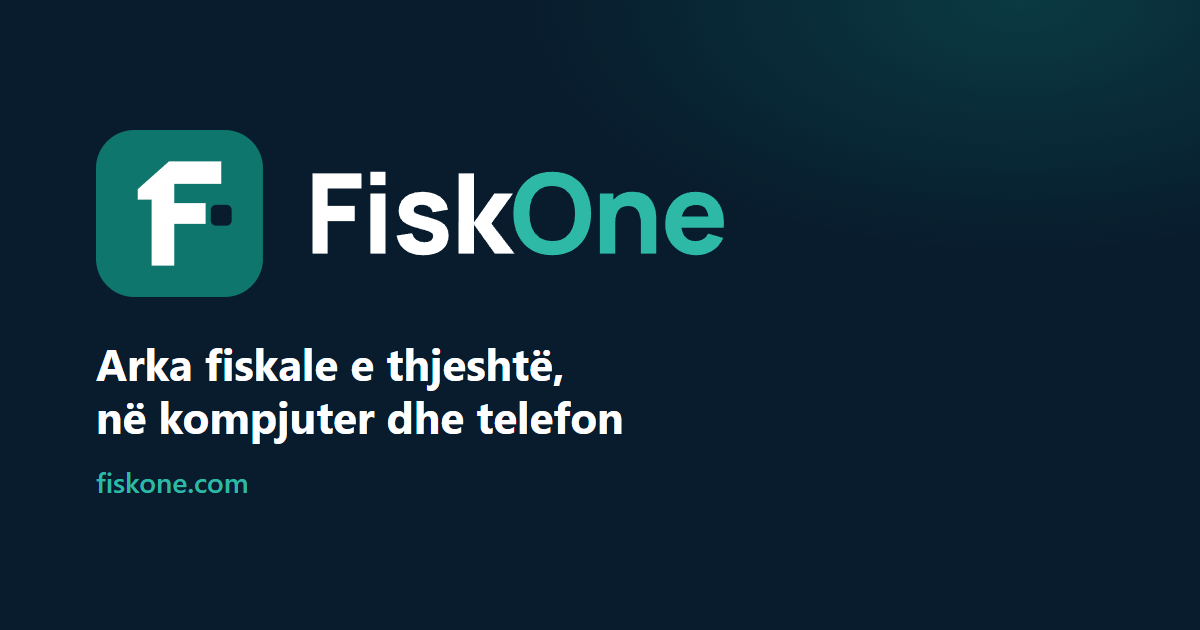
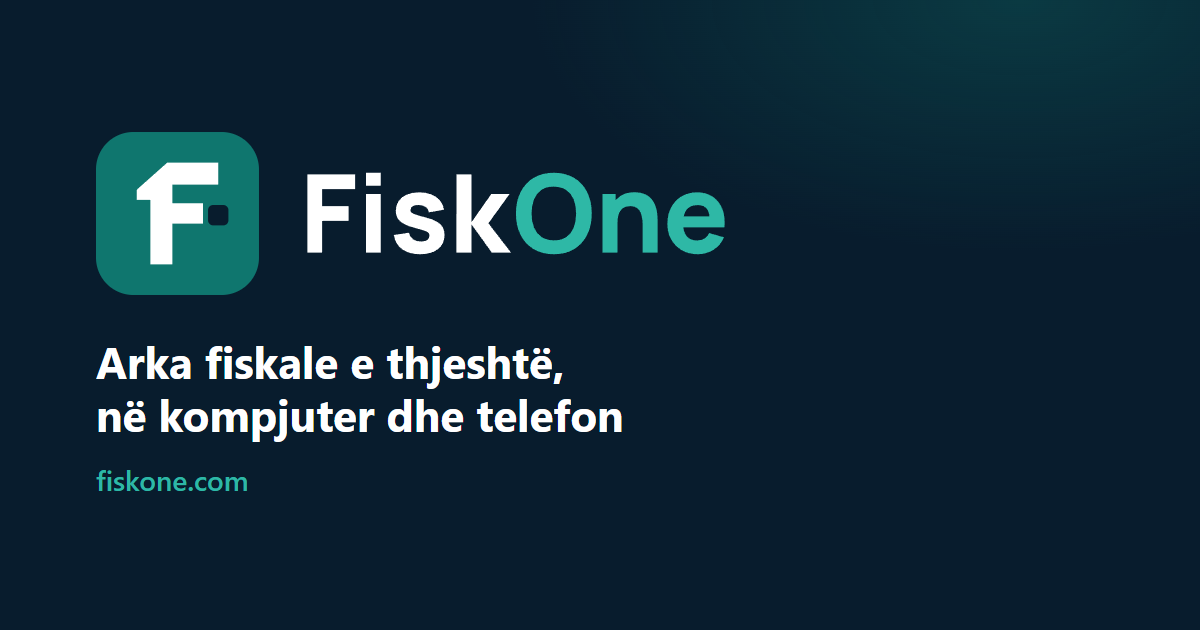
feat: live on Firebase; sharp wordmark, dark-background mark
- Firebase project fiskone-landing (config, .firebaserc); fonts are not
  inlined so the CSP stays strict; firebase-debug.log ignored.
- Header and footer show the mark plus the name as real text (sharp at
  every size); the footer uses the teal-tile mark on navy.
- Wordmark outlines use the font's kerning; logos, og.png regenerated.

diff --git a/index.html b/index.html
@@ -21,7 +21,7 @@
 
     <header class="top" id="top">
       <div class="wrap top__bar">
-        <a class="brand" href="#top" aria-label="FiskOne"><img src="/logo.svg" alt="FiskOne" width="150" height="38" /></a>
+        <a class="brand" href="#top" aria-label="FiskOne"><img class="brand__mark" src="/icon.svg" alt="" width="36" height="36" /><span class="wordmark"><span>Fisk</span><span class="wordmark__one">One</span></span></a>
         <nav class="nav" aria-label="Kryesore" data-i18n-attr="aria-label:nav.label">
           <a href="#features" data-i18n="nav.features">Veçoritë</a>
           <a href="#who" data-i18n="nav.who">Për kë</a>
@@ -276,7 +276,7 @@
 
     <footer class="foot">
       <div class="wrap foot__bar">
-        <img src="/logo-dark.svg" alt="FiskOne" width="120" height="30" />
+        <span class="brand brand--dark"><img class="brand__mark" src="/icon-dark.svg" alt="" width="30" height="30" /><span class="wordmark"><span>Fisk</span><span class="wordmark__one">One</span></span></span>
         <p data-i18n="foot.text">Softuer elektronik fiskal për Kosovë.</p>
         <p class="foot__copy">© <span id="year">2026</span> FiskOne</p>
       </div>

diff --git a/src/styles.css b/src/styles.css
@@ -178,9 +178,50 @@ h3 {
   min-height: 68px;
 }
 
-.brand img {
-  width: 150px;
-  height: auto;
+/* Logo: the mark as an image, the name as real text (sharp at every size; the outlined
+   SVG wordmark in public/logo.svg is for places that need an image). */
+.brand {
+  display: inline-flex;
+  align-items: center;
+  gap: 10px;
+  color: var(--navy);
+  text-decoration: none;
+}
+
+.brand__mark {
+  width: 36px;
+  height: 36px;
+  flex: none;
+}
+
+.wordmark {
+  font-size: 1.6rem;
+  font-weight: 800;
+  line-height: 1;
+  letter-spacing: -0.01em;
+  white-space: nowrap;
+}
+
+.wordmark__one {
+  margin-left: 0.035em;
+  color: var(--teal);
+}
+
+.brand--dark {
+  color: var(--white);
+}
+
+.brand--dark .brand__mark {
+  width: 30px;
+  height: 30px;
+}
+
+.brand--dark .wordmark {
+  font-size: 1.3rem;
+}
+
+.brand--dark .wordmark__one {
+  color: var(--teal-light);
 }
 
 .nav {
@@ -247,8 +288,13 @@ h3 {
     gap: 12px;
   }
 
-  .brand img {
-    width: 120px;
+  .brand__mark {
+    width: 32px;
+    height: 32px;
+  }
+
+  .brand .wordmark {
+    font-size: 1.4rem;
   }
 
   .top__end .btn--small {

diff --git a/src/firebase-config.ts b/src/firebase-config.ts
@@ -1,10 +1,10 @@
 // The web app's Firebase settings (Firebase console → Project settings → Your apps → Web).
 // These values are public by design: access is controlled by firestore.rules, not by hiding them.
 export const firebaseConfig = {
-  apiKey: '',
-  authDomain: '',
-  projectId: '',
-  appId: '',
+  apiKey: 'AIzaSyC1rLM35KzKvKxtqOvnnlpwPR7lpM0zMqE',
+  authDomain: 'fiskone-landing.firebaseapp.com',
+  projectId: 'fiskone-landing',
+  appId: '1:600152837202:web:946b600cbefaf7fc5aa38b',
 };
 
 /** True once the settings above are filled in. */

diff --git a/vite.config.ts b/vite.config.ts
@@ -1,0 +1,9 @@
+import { defineConfig } from 'vite';
+
+export default defineConfig({
+  build: {
+    // No assets inlined as data: URLs (fonts, images): the Content Security Policy in
+    // firebase.json allows fonts and scripts from this site only.
+    assetsInlineLimit: 0,
+  },
+});
